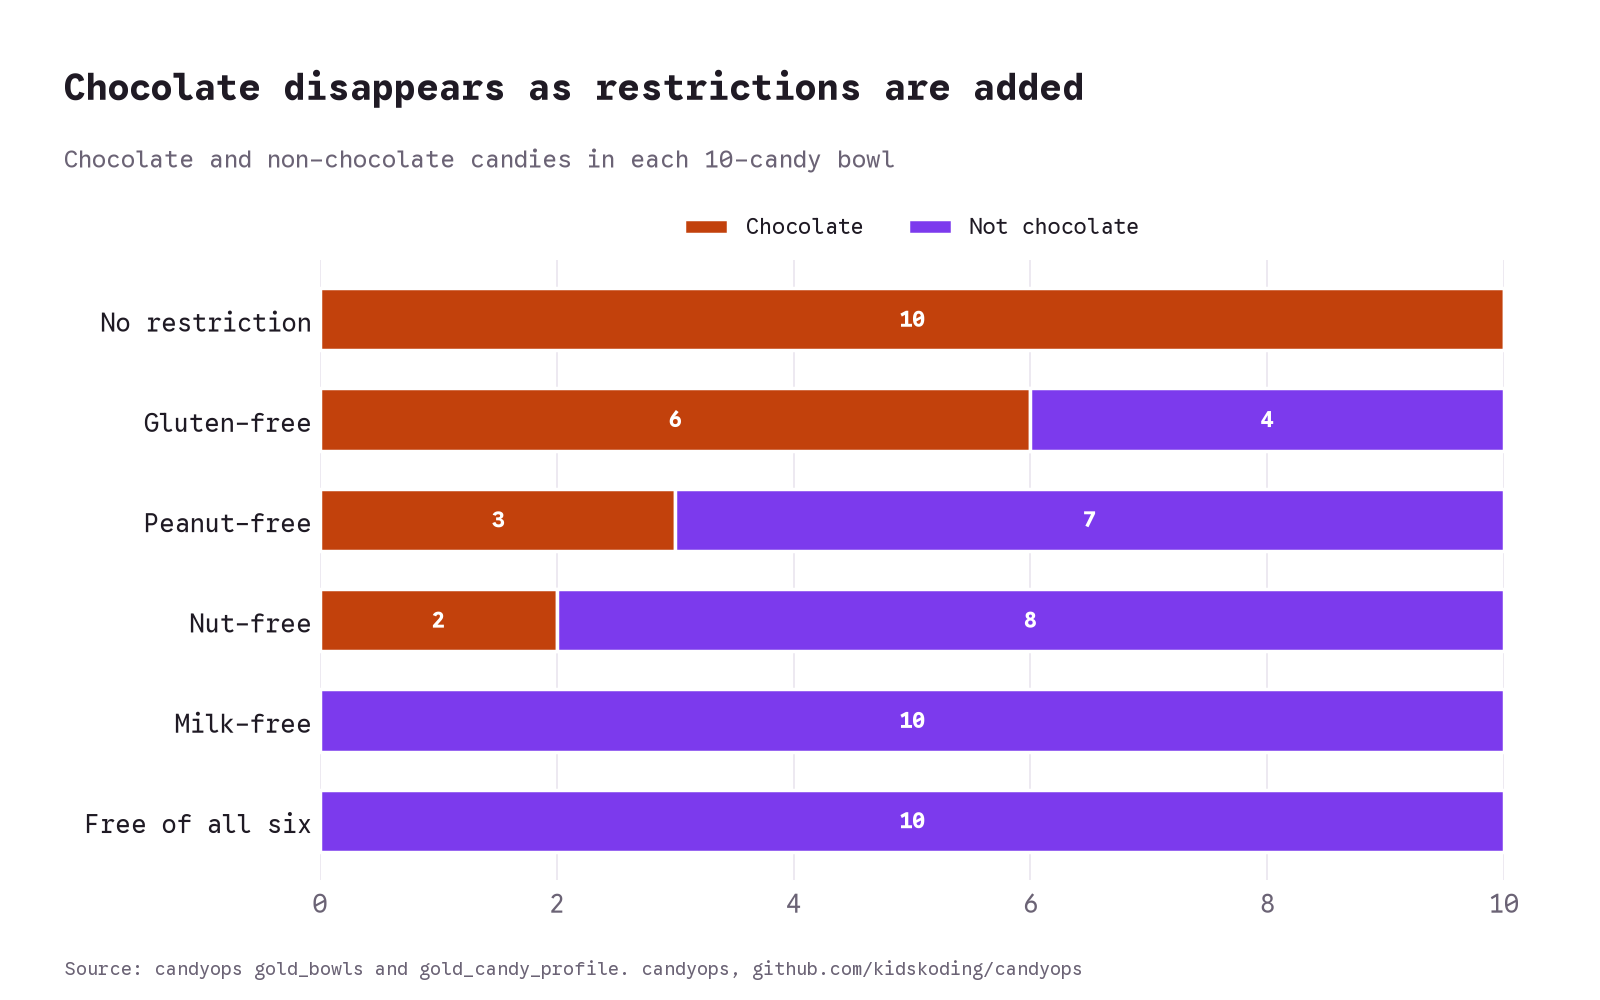
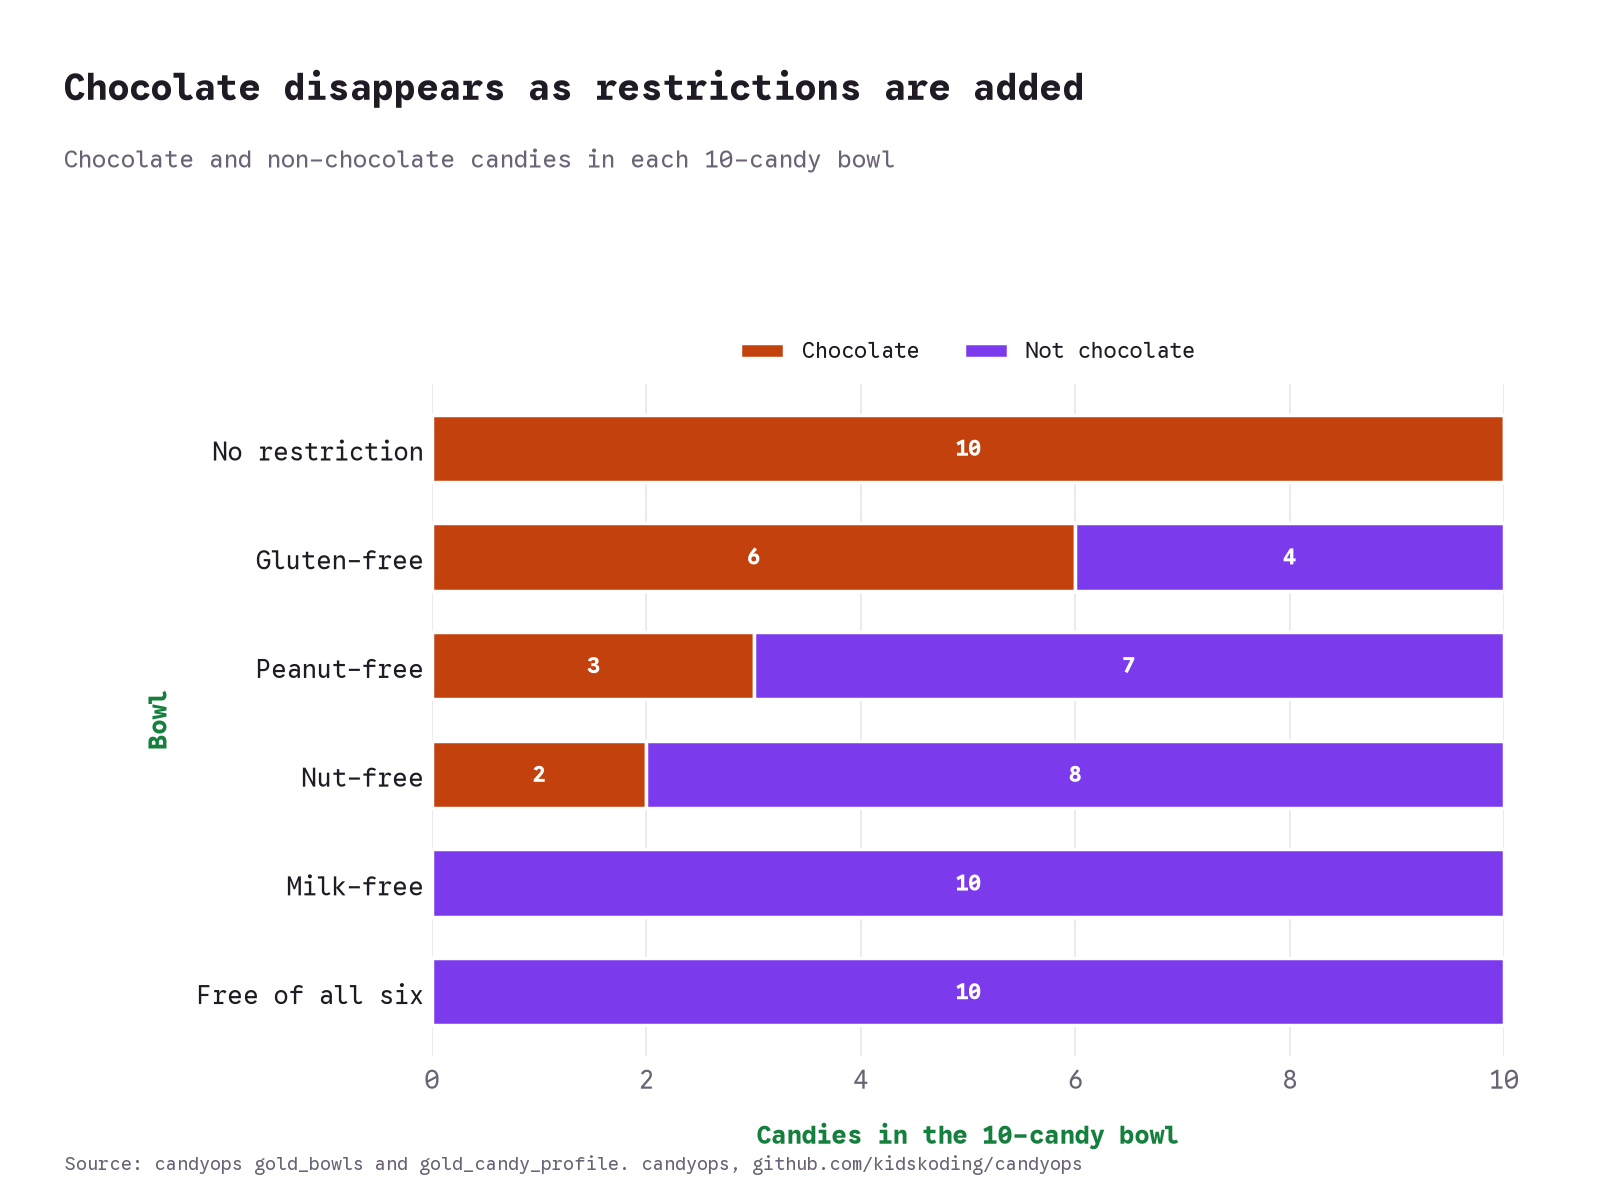
fix: give figures more room and label both axes
Figures are taller, with bold green x and y axis titles and wider margins so labels and legends do not crowd the plot.

diff --git a/scripts/build_figures.py b/scripts/build_figures.py
@@ -25,22 +25,23 @@ OUT = ROOT / "docs" / "figures"
 # Each theme's chart colors were checked with the dataviz palette validator against its background.
 THEMES = {
     "light": {"INK": "#1F1A24", "MUTED": "#6B6375", "GRID": "#ECE8F0", "BG": "#FFFFFF",
-              "ORANGE": "#C2410C", "PURPLE": "#7C3AED", "LAVENDER": "#A78BFA", "GREY": "#A8A29E",
+              "ORANGE": "#C2410C", "PURPLE": "#7C3AED", "LAVENDER": "#A78BFA", "GREY": "#A8A29E", "AXIS": "#15803D",
               "SEVERITY": {"contains": "#9A3412", "varies": "#EA580C", "may_contain": "#FB923C",
                            "not_listed": "#F1EFEC", "unknown": "#FFFFFF"}},
     # gruvbox dark, the blog's palette: fg, fg2, bg2, bg; orange, purple, aqua, fg3; orange ramp bright to faded
     "dark": {"INK": "#EBDBB2", "MUTED": "#A89984", "GRID": "#3C3836", "BG": "#282828",
-             "ORANGE": "#FE8019", "PURPLE": "#D3869B", "LAVENDER": "#8EC07C", "GREY": "#7C6F64",
+             "ORANGE": "#FE8019", "PURPLE": "#D3869B", "LAVENDER": "#8EC07C", "GREY": "#7C6F64", "AXIS": "#B8BB26",
              "SEVERITY": {"contains": "#FE8019", "varies": "#D65D0E", "may_contain": "#AF3A03",
                           "not_listed": "#3C3836", "unknown": "#282828"}},
 }
-INK = MUTED = GRID = BG = ORANGE = PURPLE = LAVENDER = GREY = ""
+INK = MUTED = GRID = BG = ORANGE = PURPLE = LAVENDER = GREY = AXIS = ""
 SEVERITY: dict[str, str] = {}
 
 
 def apply_theme(name: str) -> None:
     globals().update(THEMES[name])
-    plt.rcParams.update({"text.color": INK, "axes.labelcolor": MUTED, "xtick.color": MUTED, "ytick.color": INK,
+    plt.rcParams.update({"text.color": INK, "axes.labelcolor": AXIS, "axes.labelweight": "bold",
+                         "axes.labelpad": 10, "xtick.color": MUTED, "ytick.color": INK,
                          "axes.edgecolor": GRID, "axes.facecolor": BG, "figure.facecolor": BG})
 RESTRICTION_LABELS = {"no_restriction": "No restriction", "gluten_free": "Gluten-free", "peanut_free": "Peanut-free",
                       "nut_free": "Nut-free", "milk_free": "Milk-free", "free_of_all_six": "Free of all six"}
@@ -56,7 +57,7 @@ FONT = next((f for f in ["Google Sans Code", "TeX Gyre Heros", "Liberation Sans"
 plt.rcParams.update({"font.family": FONT, "font.size": 11})
 
 
-def figure(title: str, subtitle: str, height: float = 5.0):
+def figure(title: str, subtitle: str, height: float = 6.0):
     # monospace text runs about 20% wider: a 1.2x larger canvas at 1/1.2 the dpi keeps the pixel size, shrinks the text
     fig = plt.figure(figsize=(8 * 1.2, height * 1.2), dpi=200 / 1.2, facecolor=BG)
     fig.text(0.04, 1 - 0.32 / height, title, fontsize=16, fontweight="bold", va="top")
@@ -91,8 +92,8 @@ def allergens_vs_popularity(rows):
             r["x"] = n + (i % 4 - 1.5) * 0.11  # spread equal counts side by side so dots do not overlap
     fig = figure("The most popular candies list the most allergens",
                  f"Each dot is one of {len(rows)} candies with at least two labeled products. "
-                 "Lines show the average win rate.", 5.6)
-    ax = fig.add_axes([0.1, 0.14, 0.86, 0.66])
+                 "Lines show the average win rate.", 6.6)
+    ax = fig.add_axes([0.1, 0.15, 0.86, 0.63])
     for choc, color, label in [("true", ORANGE, "Chocolate"), ("false", PURPLE, "Not chocolate")]:
         pts = [r for r in rows if r["chocolate"] == choc]
         ax.scatter([r["x"] for r in pts], [r["w"] for r in pts], s=42, color=color, edgecolor=BG, linewidth=1,
@@ -123,15 +124,17 @@ def popularity_retained(bowls):
     bowls = sorted(bowls, key=lambda b: float(b["popularity_kept_pct"]))
     fig = figure("Every restriction costs popularity",
                  "Average win rate of each 10-candy bowl, as a share of the unrestricted bowl")
-    ax = fig.add_axes([0.2, 0.12, 0.74, 0.66])
+    ax = fig.add_axes([0.27, 0.12, 0.67, 0.66])
     labels = [RESTRICTION_LABELS[b["restriction"]] for b in bowls]
     values = [float(b["popularity_kept_pct"]) for b in bowls]
     colors = [GREY if b["restriction"] == "no_restriction" else ORANGE for b in bowls]
     ax.barh(labels, values, color=colors, height=0.62)
     for i, (v, b) in enumerate(zip(values, bowls, strict=True)):
         ax.text(v + 1, i, f"{v:.1f}%   {b['candies_allowed']} eligible candies", va="center", fontsize=9.5)
-    ax.set_xlim(0, 135)
+    ax.set_xlim(0, 165)
     ax.set_xticks(range(0, 101, 25), [f"{v}%" for v in range(0, 101, 25)])
+    ax.set_xlabel("Popularity kept, compared with the unrestricted bowl")
+    ax.set_ylabel("Bowl")
     tidy(ax)
     save(fig, "fig2_popularity_retained.png", "candyops gold_bowl_summary")
 
@@ -143,7 +146,7 @@ def chocolate_share(mix):
     other = [counts.get((r, "Not chocolate"), 0) for r in order]
     fig = figure("Chocolate disappears as restrictions are added",
                  "Chocolate and non-chocolate candies in each 10-candy bowl")
-    ax = fig.add_axes([0.2, 0.12, 0.74, 0.62])
+    ax = fig.add_axes([0.27, 0.12, 0.67, 0.56])
     labels = [RESTRICTION_LABELS[r] for r in order]
     ax.barh(labels, choc, color=ORANGE, height=0.62, label="Chocolate", edgecolor=BG, linewidth=1.5)
     ax.barh(labels, other, left=choc, color=PURPLE, height=0.62, label="Not chocolate", edgecolor=BG, linewidth=1.5)
@@ -154,6 +157,8 @@ def chocolate_share(mix):
             ax.text(c + o / 2, i, str(o), ha="center", va="center", color=BG, fontsize=9.5, fontweight="bold")
     ax.set_xlim(0, 10)
     ax.set_xticks(range(0, 11, 2))
+    ax.set_xlabel("Candies in the 10-candy bowl")
+    ax.set_ylabel("Bowl")
     tidy(ax)
     ax.legend(loc="lower center", bbox_to_anchor=(0.5, 1.0), ncol=2, frameon=False, fontsize=9.5)
     save(fig, "fig3_chocolate_share.png", "candyops gold_bowls and gold_candy_profile")
@@ -163,7 +168,7 @@ def sugar_by_bowl(bowls):
     bowls = sorted(bowls, key=lambda b: float(b["median_sugars_100g"]))
     fig = figure("Allergy-safe bowls contain more sugar",
                  "Median sugar per 100 g in each bowl. Safe bowls rely on fruit candy instead of chocolate.")
-    ax = fig.add_axes([0.2, 0.17, 0.74, 0.61])
+    ax = fig.add_axes([0.27, 0.17, 0.67, 0.61])
     labels = [RESTRICTION_LABELS[b["restriction"]] for b in bowls]
     values = [float(b["median_sugars_100g"]) for b in bowls]
     ax.barh(labels, values, color=[GREY if b["restriction"] == "no_restriction" else PURPLE for b in bowls],
@@ -172,14 +177,15 @@ def sugar_by_bowl(bowls):
         ax.text(v + 1, i, f"{v:.1f} g", va="center", fontsize=9.5)
     ax.set_xlim(0, 85)
     ax.set_xlabel("Grams of sugar per 100 g (median)")
+    ax.set_ylabel("Bowl")
     tidy(ax)
     save(fig, "fig4_sugar_by_bowl.png", "candyops gold_bowl_summary")
 
 
 def allergen_heatmap(candies):
     fig = figure("Allergen status of the 20 most popular candies",
-                 "From matched Open Food Facts labels. Unknown means no matched product had an ingredient list.", 8.2)
-    ax = fig.add_axes([0.32, 0.1, 0.64, 0.76])
+                 "From matched Open Food Facts labels. Unknown means no matched product had an ingredient list.", 9.4)
+    ax = fig.add_axes([0.4, 0.1, 0.56, 0.74])
     short = {"contains": "contains", "varies": "varies", "may_contain": "may", "not_listed": "", "unknown": "?"}
     for row, c in enumerate(candies):
         for col, (key, _) in enumerate(ALLERGENS):
@@ -193,6 +199,9 @@ def allergen_heatmap(candies):
     ax.set_ylim(len(candies), 0)
     ax.set_xticks([i + 0.47 for i in range(6)], [label for _, label in ALLERGENS])
     ax.xaxis.tick_top()
+    ax.xaxis.set_label_position("top")
+    ax.set_xlabel("Allergen")
+    ax.set_ylabel("Candy, by popularity rank")
     ax.set_yticks([i + 0.44 for i in range(len(candies))],
                   [f"{int(c['popularity_rank'])}. {c['candy']}" for c in candies], fontsize=9)
     for side in ax.spines.values():
@@ -211,7 +220,7 @@ def matching_methods(methods):
     labels = ["Name only" if m["method"] == "naive" else "Curated rules" for m in order]
     fig = figure("Curated matching rules remove every false match",
                  "Matching on the name alone pulls in coffee creamer, ice cream and cereal")
-    ax = fig.add_axes([0.1, 0.14, 0.86, 0.6])
+    ax = fig.add_axes([0.1, 0.14, 0.86, 0.54])
     x = range(len(order))
     for offset, key, color, label in [(-0.2, "candies_matched", PURPLE, "Candies matched (of 83)"),
                                       (0.2, "non_candy_products", ORANGE, "Non-candy products matched")]:
@@ -220,6 +229,8 @@ def matching_methods(methods):
         for i, v in zip(x, values, strict=True):
             ax.text(i + offset, v + 1.5, str(v), ha="center", fontsize=10)
     ax.set_xticks(list(x), labels, fontsize=11)
+    ax.set_xlabel("Matching method")
+    ax.set_ylabel("Number of candies or products")
     ax.set_ylim(0, 95)
     tidy(ax, "y")
     ax.legend(loc="lower center", bbox_to_anchor=(0.5, 1.0), ncol=2, frameon=False, fontsize=9.5)
@@ -232,13 +243,14 @@ def label_changes(outcomes):
     compared = counts.get("Changed", 0) + counts.get("Unchanged", 0)
     fig = figure(f"{counts.get('Changed', 0)} of {compared} candies with current data changed allergen status",
                  "Each candy's 2017 status compared with products edited since the daily change feed started")
-    ax = fig.add_axes([0.27, 0.17, 0.67, 0.61])
+    ax = fig.add_axes([0.38, 0.17, 0.56, 0.61])
     colors = {"Changed": ORANGE, "Unchanged": PURPLE, "Newly covered": LAVENDER, "Not enough current data": GREY}
     values = [counts.get(o, 0) for o in order]
     ax.barh(order, values, color=[colors[o] for o in order], height=0.62)
     for i, v in enumerate(values):
         ax.text(v + 0.8, i, str(v), va="center", fontsize=10)
     ax.set_xlabel("Candies")
+    ax.set_ylabel("2017 status compared with current labels")
     tidy(ax)
     save(fig, "fig7_label_changes.png", "candyops gold_label_changes")
 
@@ -247,7 +259,7 @@ def warning_cost(rows):
     rows = sorted(rows, key=lambda r: float(r["popularity_kept_strict_pct"]))
     fig = figure("\"May contain\" warnings cost the peanut-free bowl 7.9 points",
                  "Popularity kept by each bowl when may-contain warnings exclude a candy, and when they are accepted")
-    ax = fig.add_axes([0.2, 0.17, 0.74, 0.58])
+    ax = fig.add_axes([0.27, 0.17, 0.67, 0.52])
     for i, r in enumerate(rows):
         strict, relaxed = float(r["popularity_kept_strict_pct"]), float(r["popularity_kept_with_warnings_pct"])
         ax.plot([strict, relaxed], [i, i], color=GRID if strict == relaxed else MUTED, linewidth=2, zorder=1)
@@ -259,6 +271,7 @@ def warning_cost(rows):
     ax.set_xlim(60, 100)
     ax.set_xticks(range(60, 101, 10), [f"{v}%" for v in range(60, 101, 10)])
     ax.set_xlabel("Popularity kept, compared with the unrestricted bowl")
+    ax.set_ylabel("Bowl")
     tidy(ax)
     ax.legend(loc="lower center", bbox_to_anchor=(0.5, 1.0), ncol=2, frameon=False, fontsize=9.5)
     save(fig, "fig8_warning_cost.png", "candyops gold_warning_cost")
@@ -268,8 +281,8 @@ def safe_swaps(rows):
     rows = sorted(rows, key=lambda r: int(r["favorite_rank"]), reverse=True)
     fig = figure("The closest peanut-free swap for each favorite",
                  "Most similar peanut-free candy by FiveThirtyEight's traits, sugar and price, with both win rates",
-                 5.8)
-    ax = fig.add_axes([0.33, 0.12, 0.6, 0.68])
+                 7.2)
+    ax = fig.add_axes([0.4, 0.12, 0.54, 0.66])
     for i, r in enumerate(rows):
         fav, swap = float(r["favorite_win_percent"]), float(r["swap_win_percent"])
         ax.plot([swap, fav], [i, i], color=MUTED, linewidth=1.5, zorder=1)
@@ -280,6 +293,7 @@ def safe_swaps(rows):
     ax.set_xlim(10, 90)
     ax.set_xticks(range(20, 91, 10), [f"{v}%" for v in range(20, 91, 10)])
     ax.set_xlabel("Win rate in head-to-head votes")
+    ax.set_ylabel("Favorite in the unrestricted bowl")
     tidy(ax)
     ax.legend(loc="lower center", bbox_to_anchor=(0.4, 1.0), ncol=2, frameon=False, fontsize=9.5)
     save(fig, "fig9_safe_swaps.png", "candyops gold_safe_swaps")
@@ -290,8 +304,8 @@ def street_bowl(rows):
     safe = [len(json.loads(r["safe_for"])) > 0 if isinstance(r["safe_for"], str) else bool(r["safe_for"])
             for r in rows]
     fig = figure("One swap gives every allergic kid something to eat",
-                 "The bowl that gives the most kids a favorite, weighting allergies by how common they are", 5.6)
-    ax = fig.add_axes([0.3, 0.13, 0.64, 0.66])
+                 "The bowl that gives the most kids a favorite, weighting allergies by how common they are", 6.6)
+    ax = fig.add_axes([0.38, 0.15, 0.56, 0.62])
     values = [float(r["win_percent"]) for r in rows]
     ax.barh([r["candy"] for r in rows], values, color=[ORANGE if s else GREY for s in safe], height=0.62)
     for i, (v, s) in enumerate(zip(values, safe, strict=True)):
@@ -300,6 +314,7 @@ def street_bowl(rows):
     ax.set_xlim(0, 150)
     ax.set_xticks(range(0, 101, 25), [f"{v}%" for v in range(0, 101, 25)])
     ax.set_xlabel("Win rate in head-to-head votes")
+    ax.set_ylabel("Candy in the street bowl")
     tidy(ax)
     save(fig, "fig10_street_bowl.png", "candyops gold_street_bowl; allergy rates from Gupta et al., Pediatrics 2018")
 
